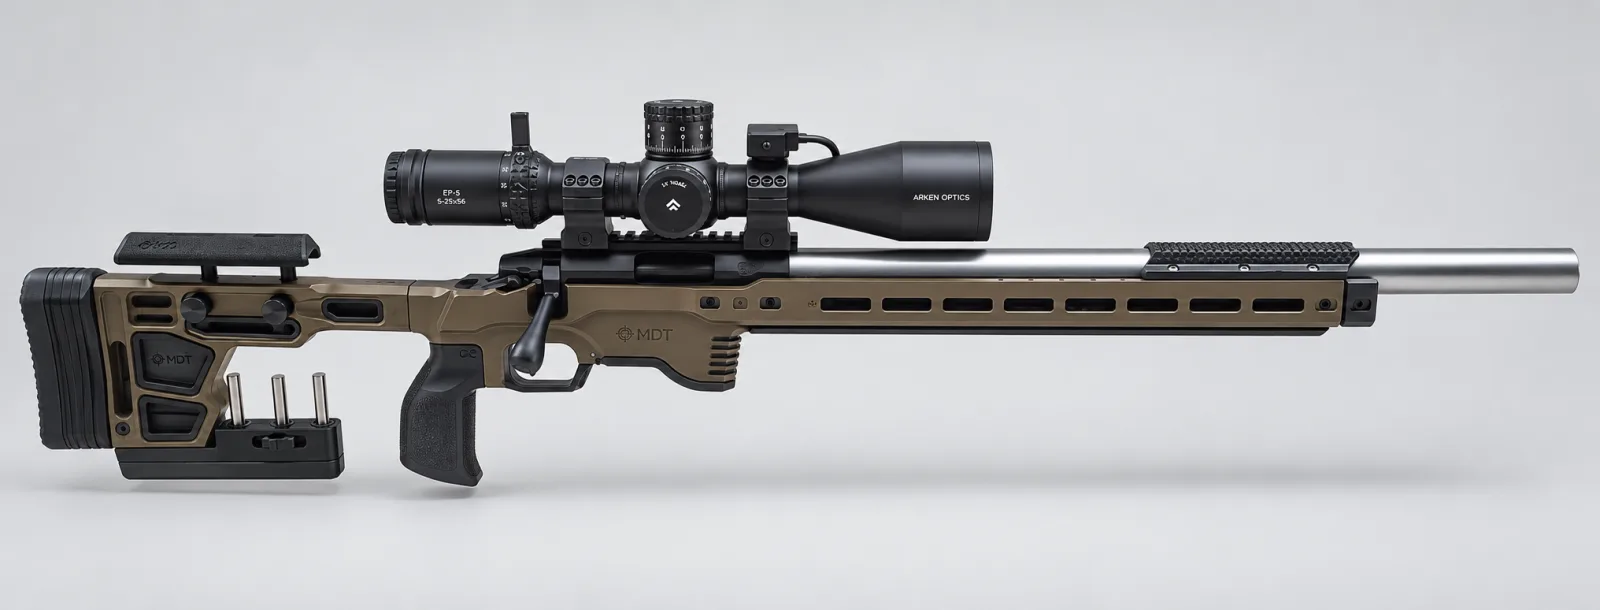
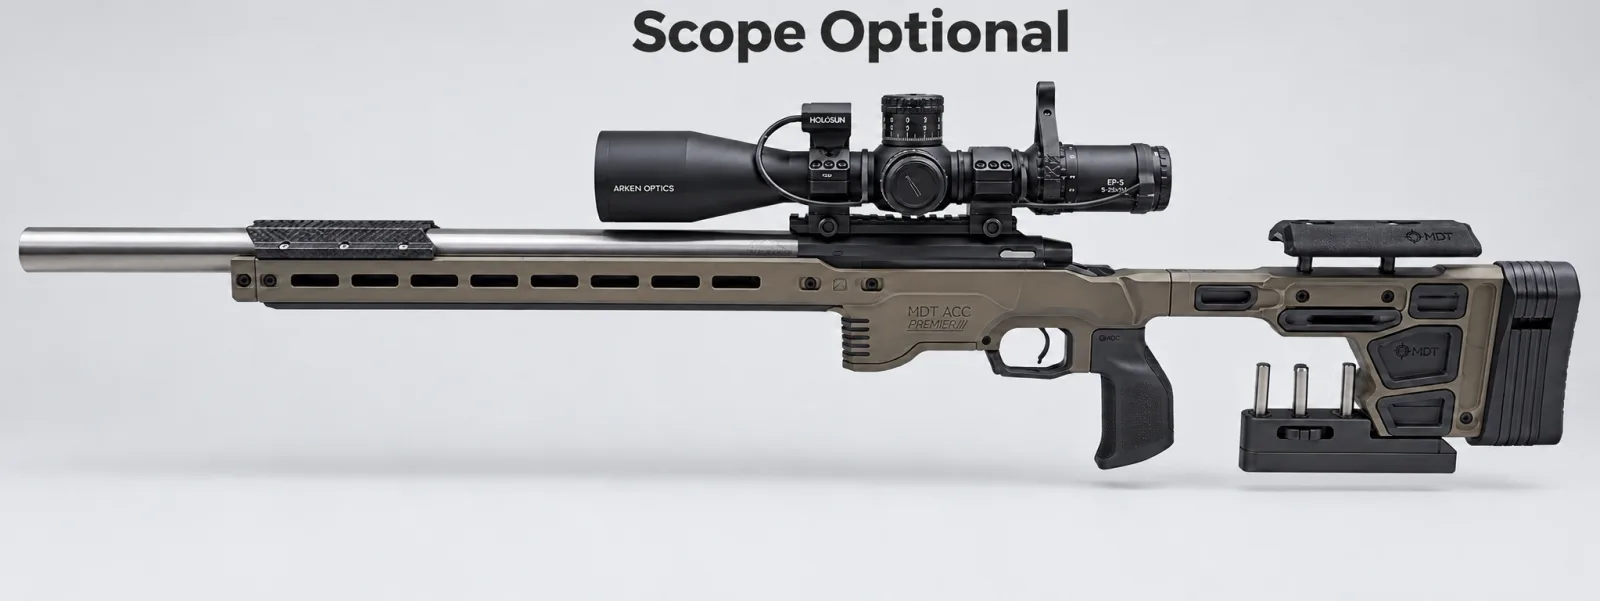
Add Scope not Included in price of gun note on scoped rifle images

diff --git a/src/data/readyToShip.ts b/src/data/readyToShip.ts
@@ -28,6 +28,7 @@ export interface Rifle {
   usage: string;
   images: string[];
   imageBgs?: string[];
+  scopedInPhoto?: boolean;
   summary: string;
   description: string[];
   specGroups: SpecGroup[];

diff --git a/scripts/import-ready-to-ship.py b/scripts/import-ready-to-ship.py
@@ -211,6 +211,33 @@ def sample_image_bg(dest_webp):
         return "#ffffff"
 
 
+def detect_scope_in_photo(dest_webp):
+    """Detect whether the primary right-facing profile photo has a mounted scope."""
+    try:
+        im = Image.open(dest_webp).convert("L")
+        w, h = im.size
+        px = im.load()
+        barrel_ys = []
+        for x in range(int(0.62 * w), int(0.82 * w), 4):
+            for y in range(int(0.10 * h), int(0.85 * h)):
+                if px[x, y] < 110:
+                    barrel_ys.append(y)
+                    break
+        scope_ys = []
+        for x in range(int(0.22 * w), int(0.58 * w), 4):
+            for y in range(int(0.08 * h), int(0.85 * h)):
+                if px[x, y] < 90:
+                    scope_ys.append(y)
+                    break
+        if not barrel_ys or not scope_ys:
+            return False
+        barrel_top = sorted(barrel_ys)[len(barrel_ys) // 2]
+        scope_top = min(scope_ys)
+        return (barrel_top - scope_top) > 45
+    except Exception:
+        return False
+
+
 def code_from_images(image_urls):
     for u in image_urls:
         m = re.search(r"/([A-Z]{2})-(\d{2}-\d+)[RL]?\.(?:png|jpg|webp)$", u, re.I)
@@ -279,8 +306,11 @@ def main():
 
         images = []
         image_bgs = []
+        first_dest = None
         for i, src_url in enumerate(image_urls, 1):
             dest = IMG_DIR / f"{slug}-{i}.webp"
+            if i == 1:
+                first_dest = dest
             img_id = id_by_src.get(src_url, "")
             cache_key = f"{img_id}:{src_url}" if img_id else src_url
             if not dest.exists() or manifest.get(dest.name) != cache_key:
@@ -289,6 +319,8 @@ def main():
             new_manifest[dest.name] = cache_key
             images.append(f"/images/ready-to-ship/{dest.name}")
             image_bgs.append(sample_image_bg(dest))
+
+        scoped_in_photo = detect_scope_in_photo(first_dest) if first_dest else False
 
         caliber = next((it["value"] for g in groups if g["title"].lower().startswith("barrel")
                         for it in g["items"] if (it["label"] or "").lower() == "caliber"), "")
@@ -311,6 +343,7 @@ def main():
             "usage": usage,
             "images": images,
             "imageBgs": image_bgs,
+            "scopedInPhoto": scoped_in_photo,
             "summary": (desc_paras or [""])[0],
             "description": desc_paras,
             "specGroups": groups,
